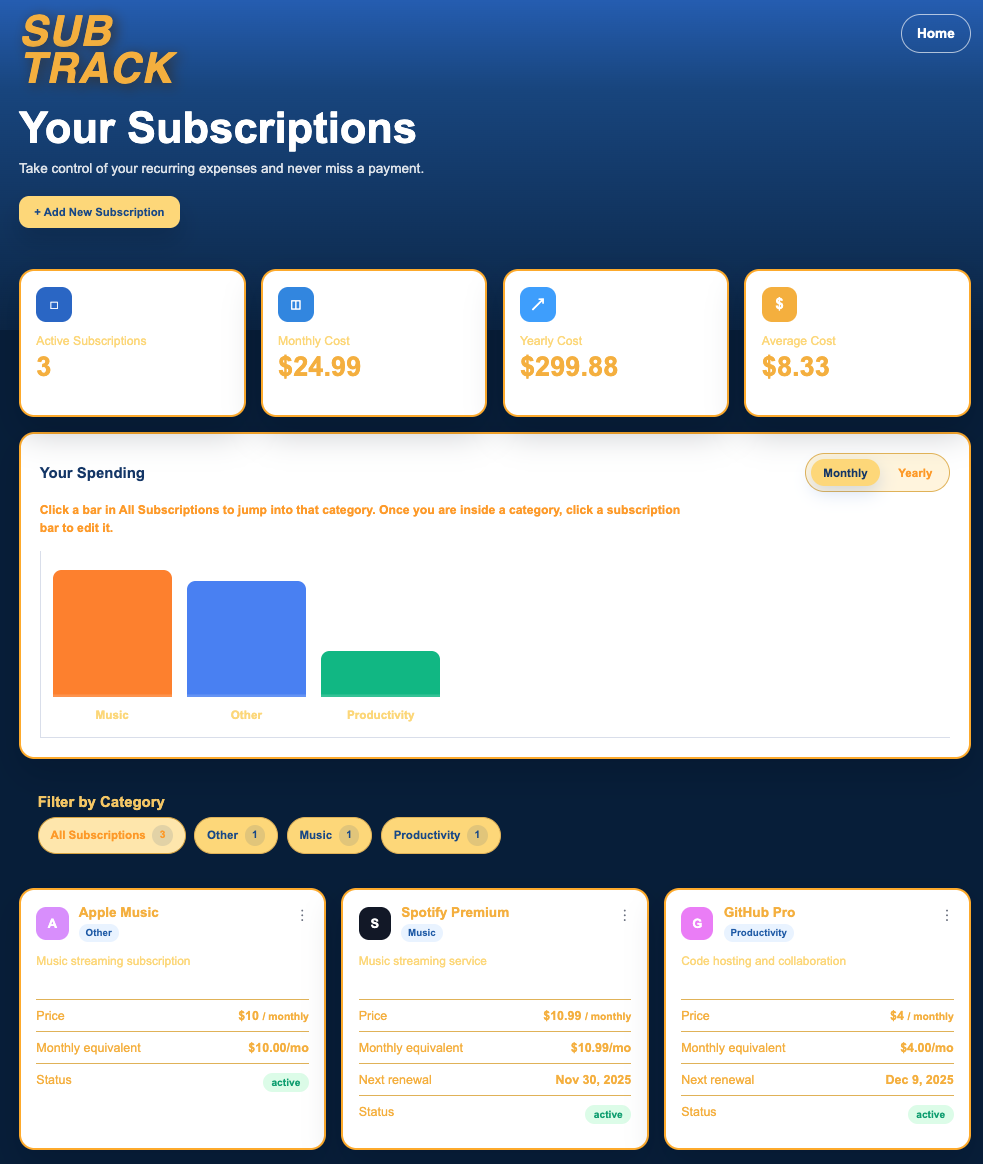
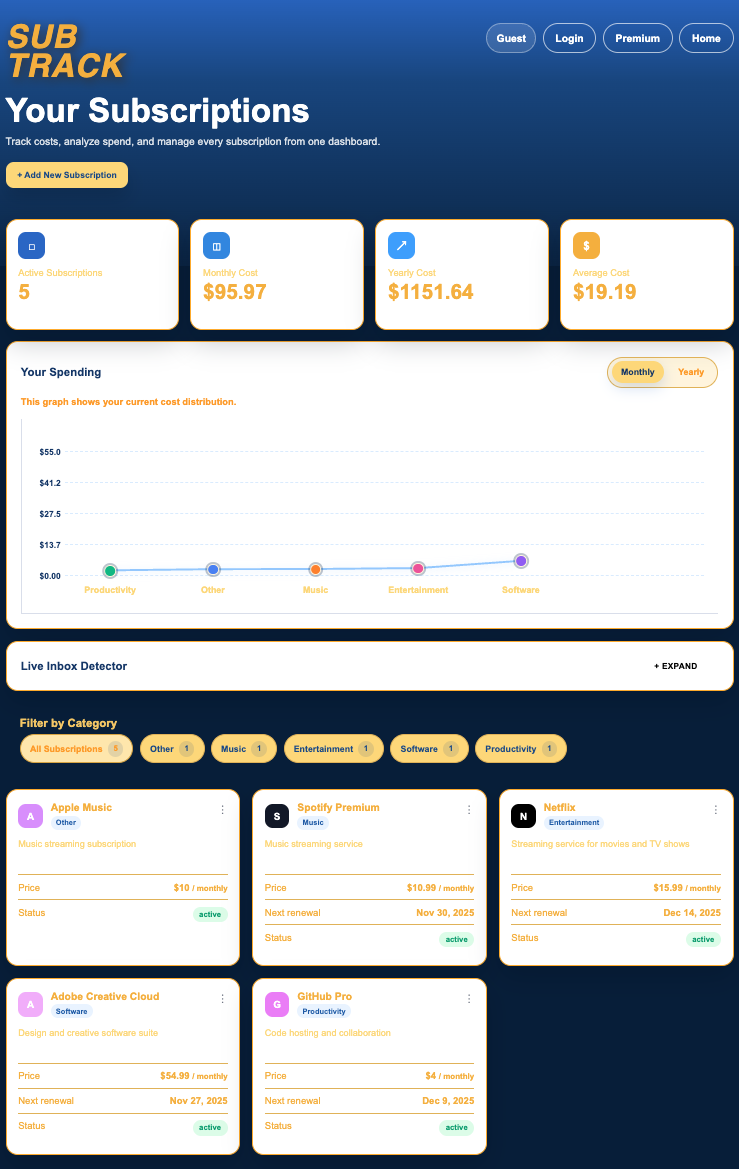
update home photo

diff --git a/public/subscriptions.html b/public/subscriptions.html
@@ -58,7 +58,7 @@
               <li>Everything in Free</li>
               <li>Unlimited tracked subscriptions</li>
               <li>Live inbox receipt sync + review confirmation</li>
-              <li>Limited AI insight and payment cycle view</li>
+              <li>Limited AI insight</li>
             </ul>
             <div class="premium-actions-row">
               <button class="btn btn-secondary premium-action-btn" id="upgradeMonthlyBtn" type="button">Buy Premium Monthly · $2.99/mo</button>